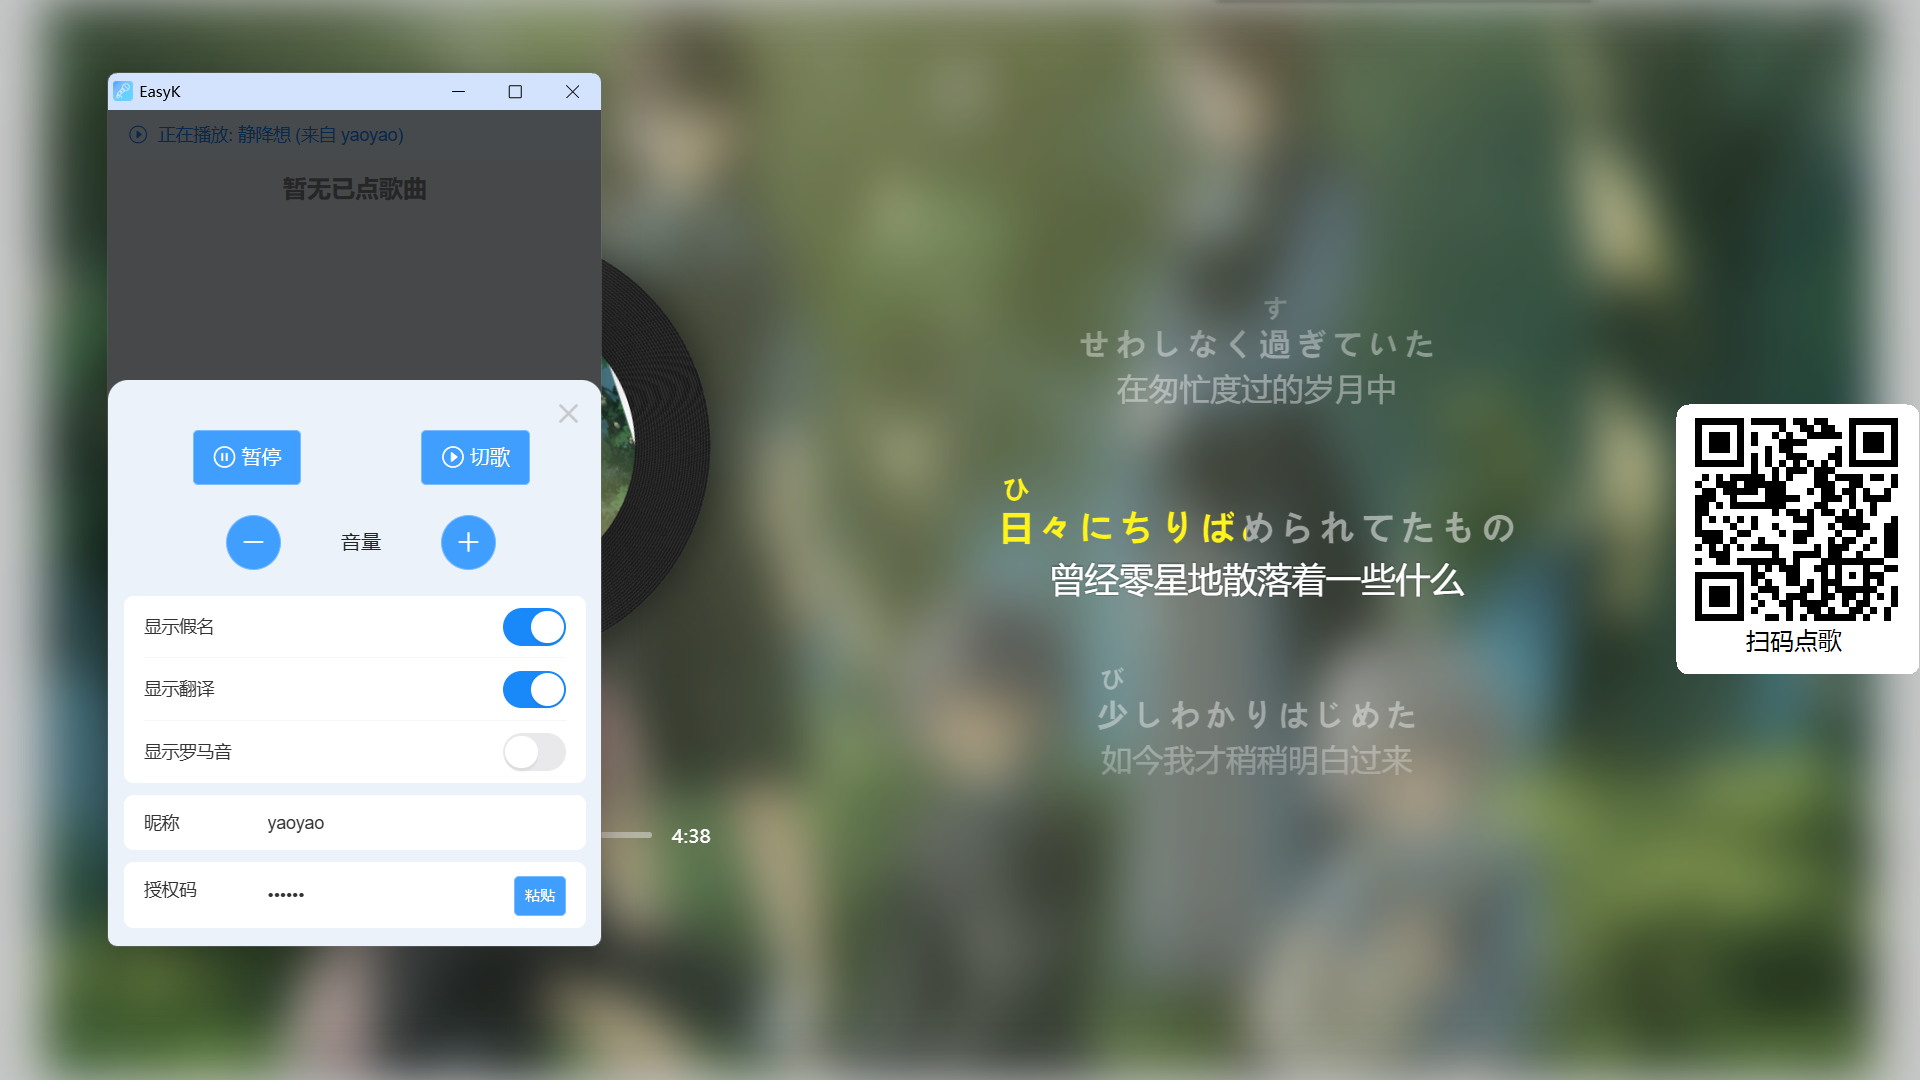
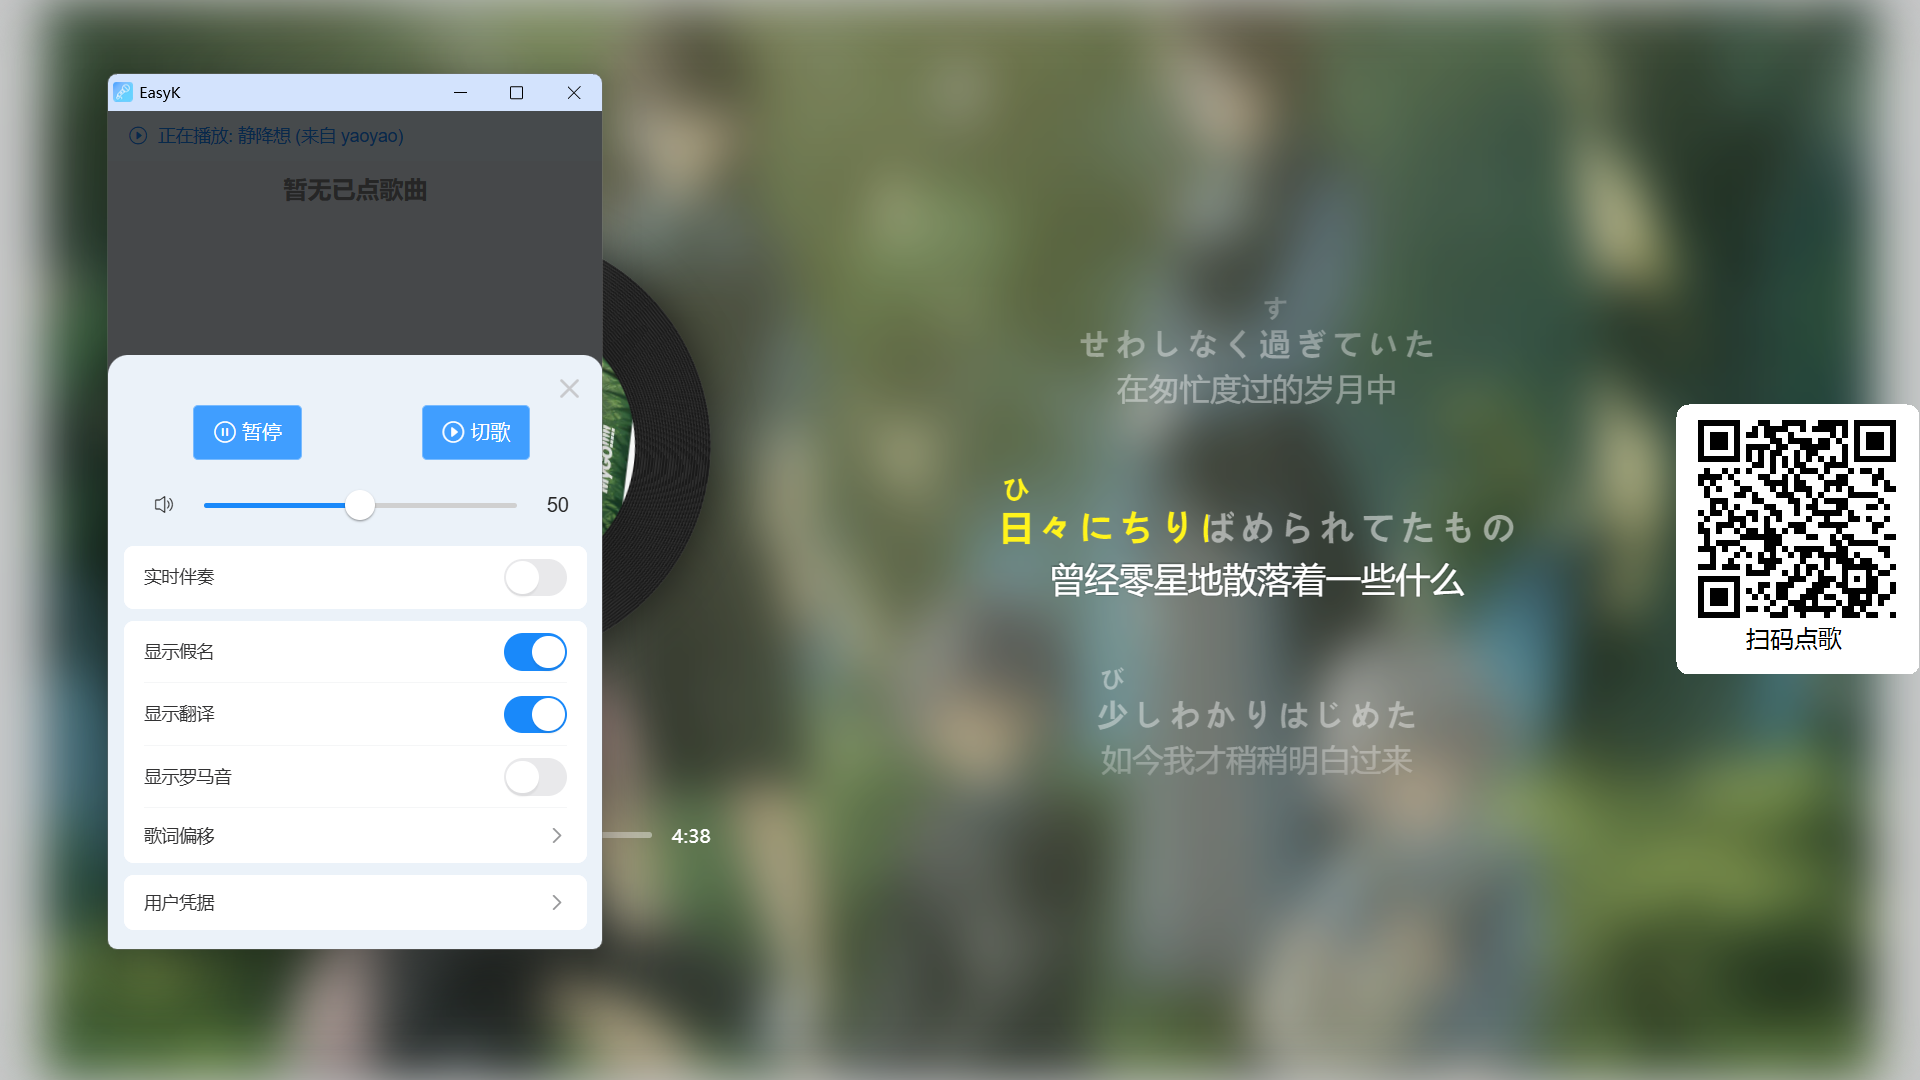
算法优化

diff --git a/README.md b/README.md
@@ -2,7 +2,7 @@
 
 **轻松随地大小K**
 
-## 🌟当前版本🌟 ➡ [✌v1.0.3🐯](https://github.com/li-yuan-fang/EasyK/releases/tag/v1.0.3)
+## 🌟当前版本🌟 ➡ [✌v1.1.0🐯](https://github.com/li-yuan-fang/EasyK/releases/tag/v1.1.0)
 
 ![播放窗口1](./docs/assets/r1.png)
 
@@ -26,9 +26,13 @@
 
 ✅DLNA投屏纯音频时自动生成界面
 
+✅实时生成伴奏（音源有人声可以自动消除）
+
 ✅投屏不会切歌
 
 ✅投屏可以开防插队功能（只有点歌的人能投）
+
+✅想在家也可以直接用
 
 ## 要怎么用
 
@@ -87,5 +91,3 @@
 [Universal Plug and Play Device Architecture](https://upnp.org/specs/arch/UPnP-arch-DeviceArchitecture-v1.1.pdf)
 
 **还有很多零星的参考资料，太多了没办法一一列举见谅**
-
-
